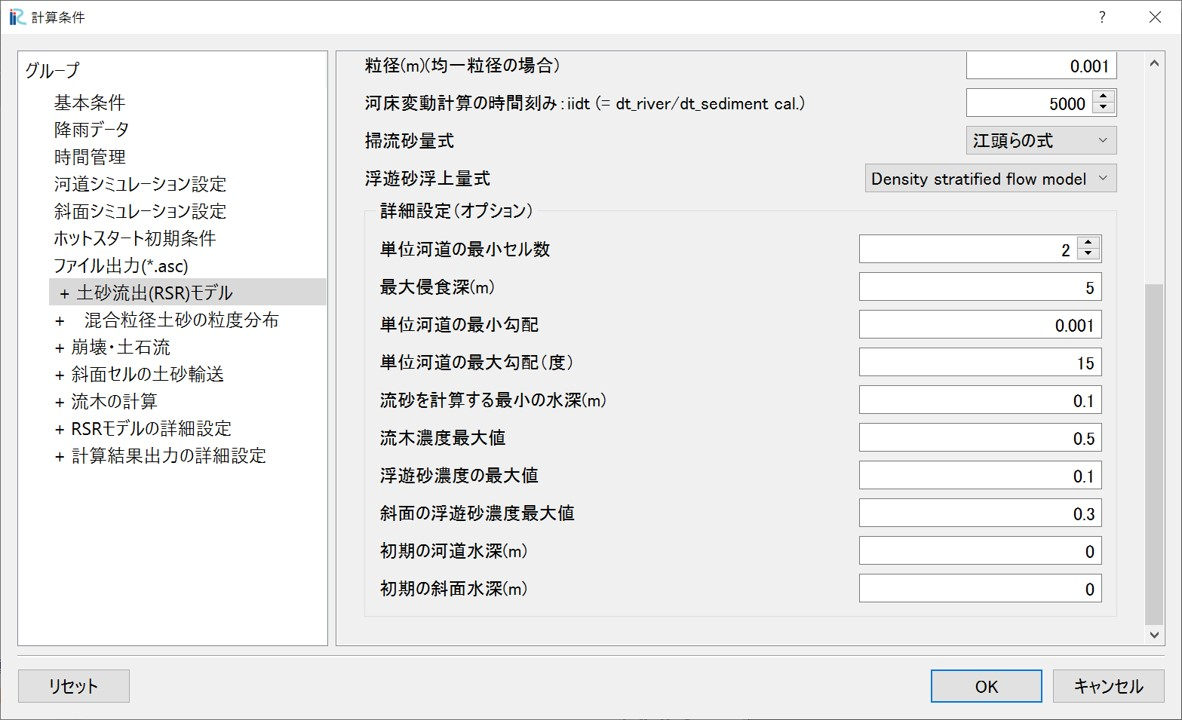
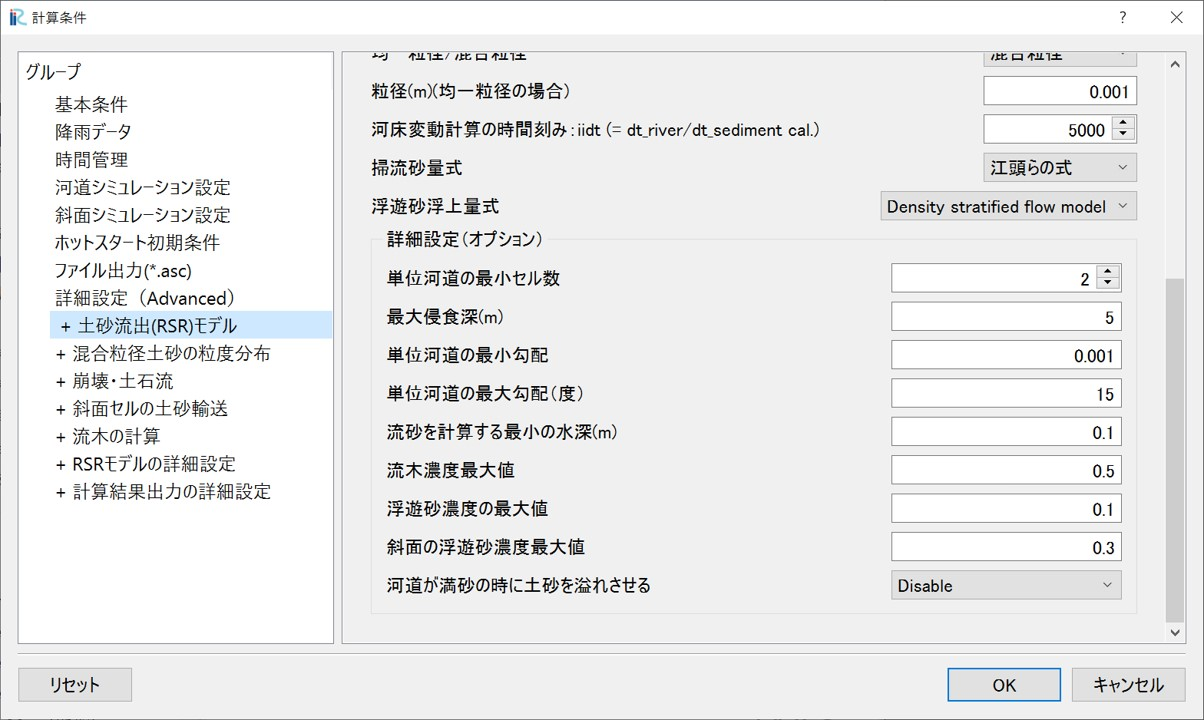
harada v1_4

diff --git a/source/02/03_cond.rst b/source/02/03_cond.rst
@@ -237,3 +237,20 @@ iRICソフトウェアを起動し、「新しいプロジェクト」から"RRI
    * - .. image:: img/cond_82.jpg
      - | - ホットスタート設定
 
+3.7 詳細設定
+++++++++++++++++++++++++++++++
+RRIモデルの解析はAdaptive Runge-Kutta法を用いており、収束計算の過程で誤差が一定値（eps）以下になるよう、
+計算時間間隔（デフォルトで斜面600秒、河道60秒、3.3章を参照）を自動的に調整します。
+特に、6章で説明するRSRモデルなどの計算において、10mなど小さいメッシュを用いる場合、epsの値を（例えば１オーダー程度）小さくすることで、計算の破綻を回避することができます。
+
+同様に、ddt_min_rivは河道計算の打ち切り誤差、ddt_min_sloは斜面計算の打ち切り誤差で、
+10mなど小さいメッシュを用いる場合にこれを１オーダー程度小さくすることで、計算の破綻を回避できます。ただし小さくするほど計算時間が長くなります。
+
+.. list-table:: 詳細設定
+   :widths: 70 30
+   :header-rows: 1
+
+   * - 画面
+     - 条件
+   * - .. image:: img/cond_83.jpg
+     - | - 詳細設定

diff --git a/source/03/example_3.rst b/source/03/example_3.rst
@@ -7,12 +7,12 @@ Example3：(RSRモデル) 2017年7月 黒川
 .. [1] `原田大輔, 江頭進治, 秦梦露. (2024). 降雨-土砂・流木流出モデルの特性-土砂粒度分布と流木の時空間変化に着目して. 河川技術論文集, 30, 335-340. <https://www.jstage.jst.go.jp/article/river/30/0/30_335/_article/-char/ja/>`_ 
 -----
 
-0. サンプルデータ (置き場所検討中)
+0. サンプルデータ
 --------------------------------------------------
 この事例で利用するサンプルデータは以下からダウンロードすることができます。
 
-- 地形および降雨データセット → `data_1 <https://uc.i-ric.org/uc_products/rri_examples/data_1.7z>`_ 
-- iRICソフトウェア用プロジェクトファイル　→ `data_1_iRIC <https://uc.i-ric.org/uc_products/rri_examples/2016_minami-furano.ipro>`_  
+- 地形および降雨データセット → `data_3 <https://uc.i-ric.org/uc_products/rri_examples/Terauchi_data.zip>`_ 
+- iRICソフトウェア用プロジェクトファイル　→ `data_3_iRIC <https://uc.i-ric.org/uc_products/rri_examples/2017_kurokawa.ipro>`_  
 
 
 １．流域地形データセットの作成
